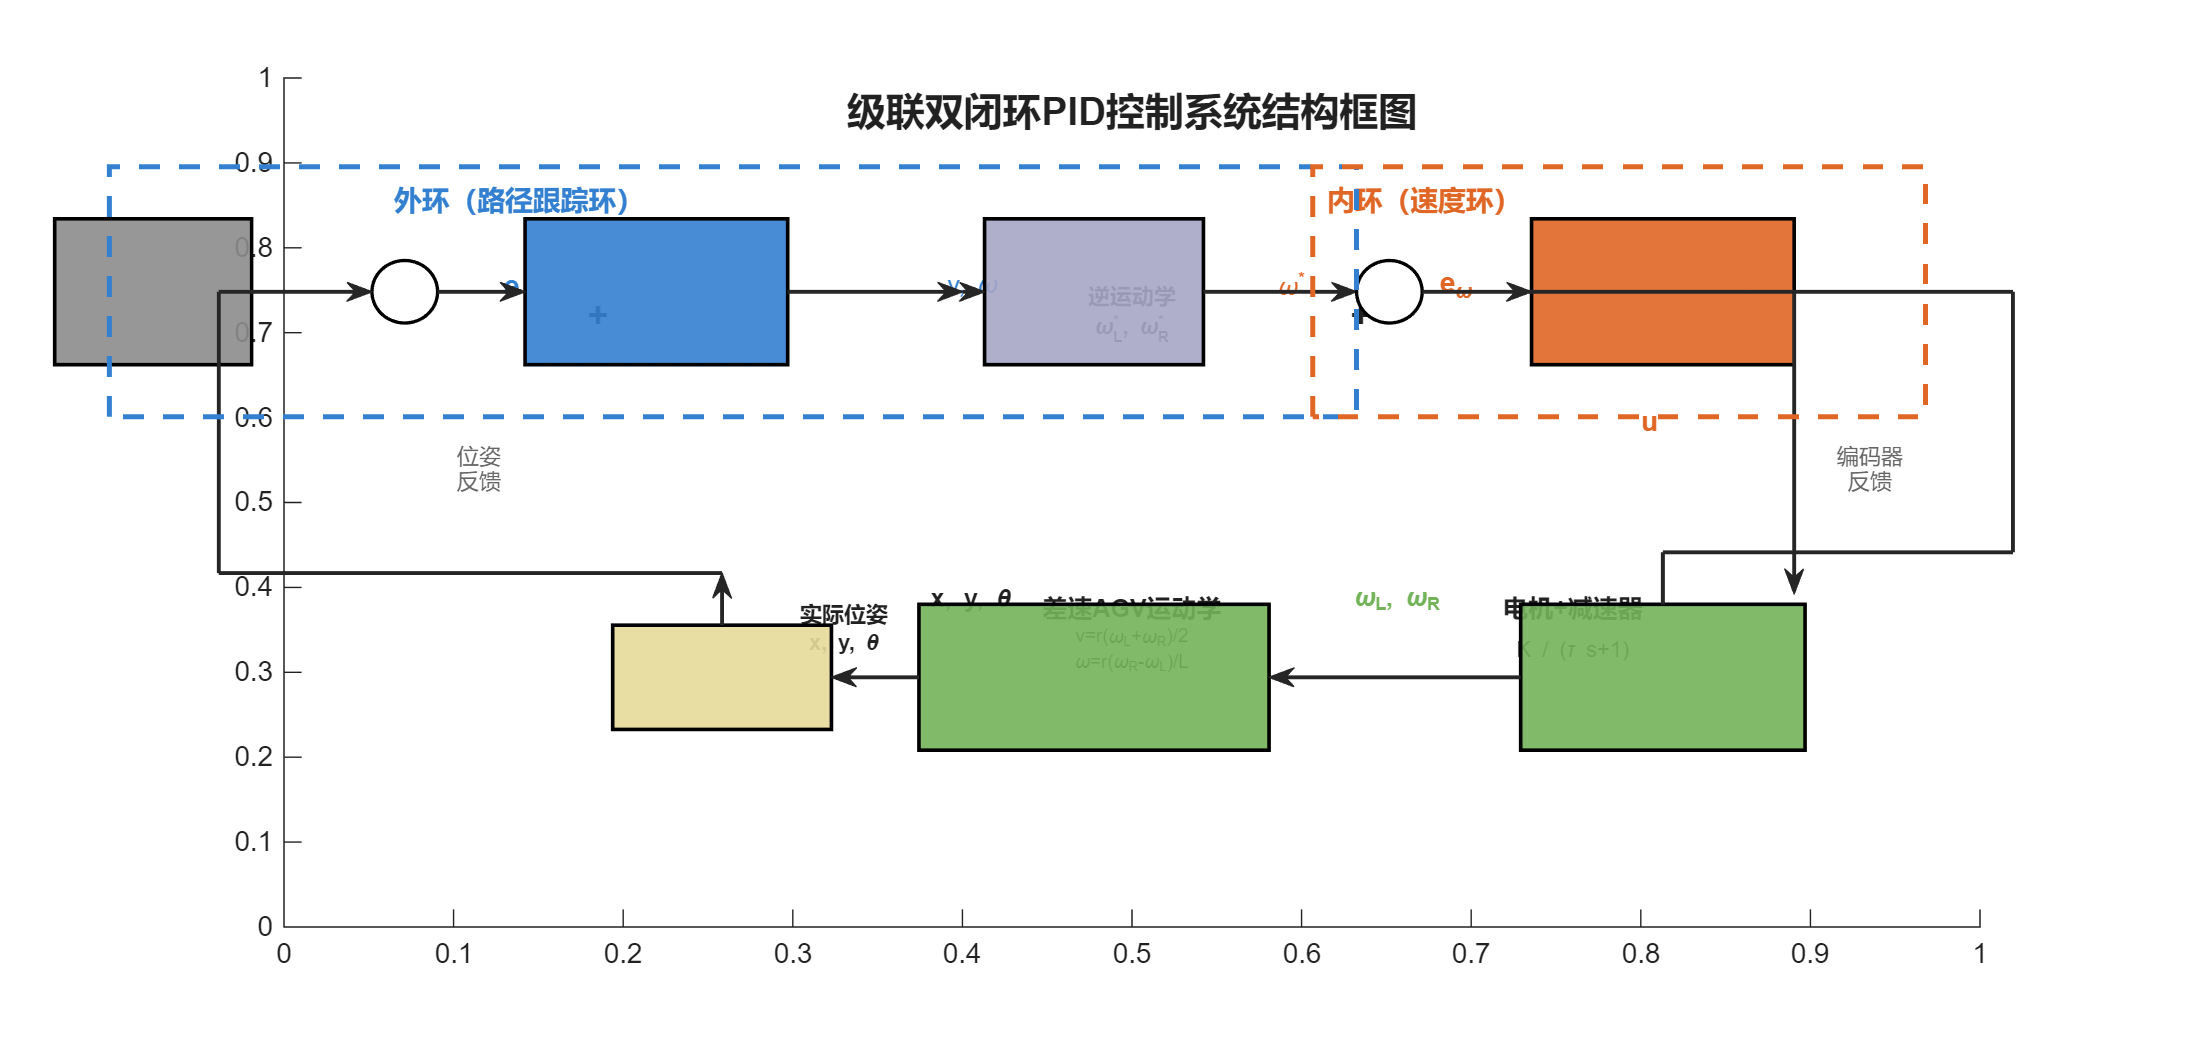
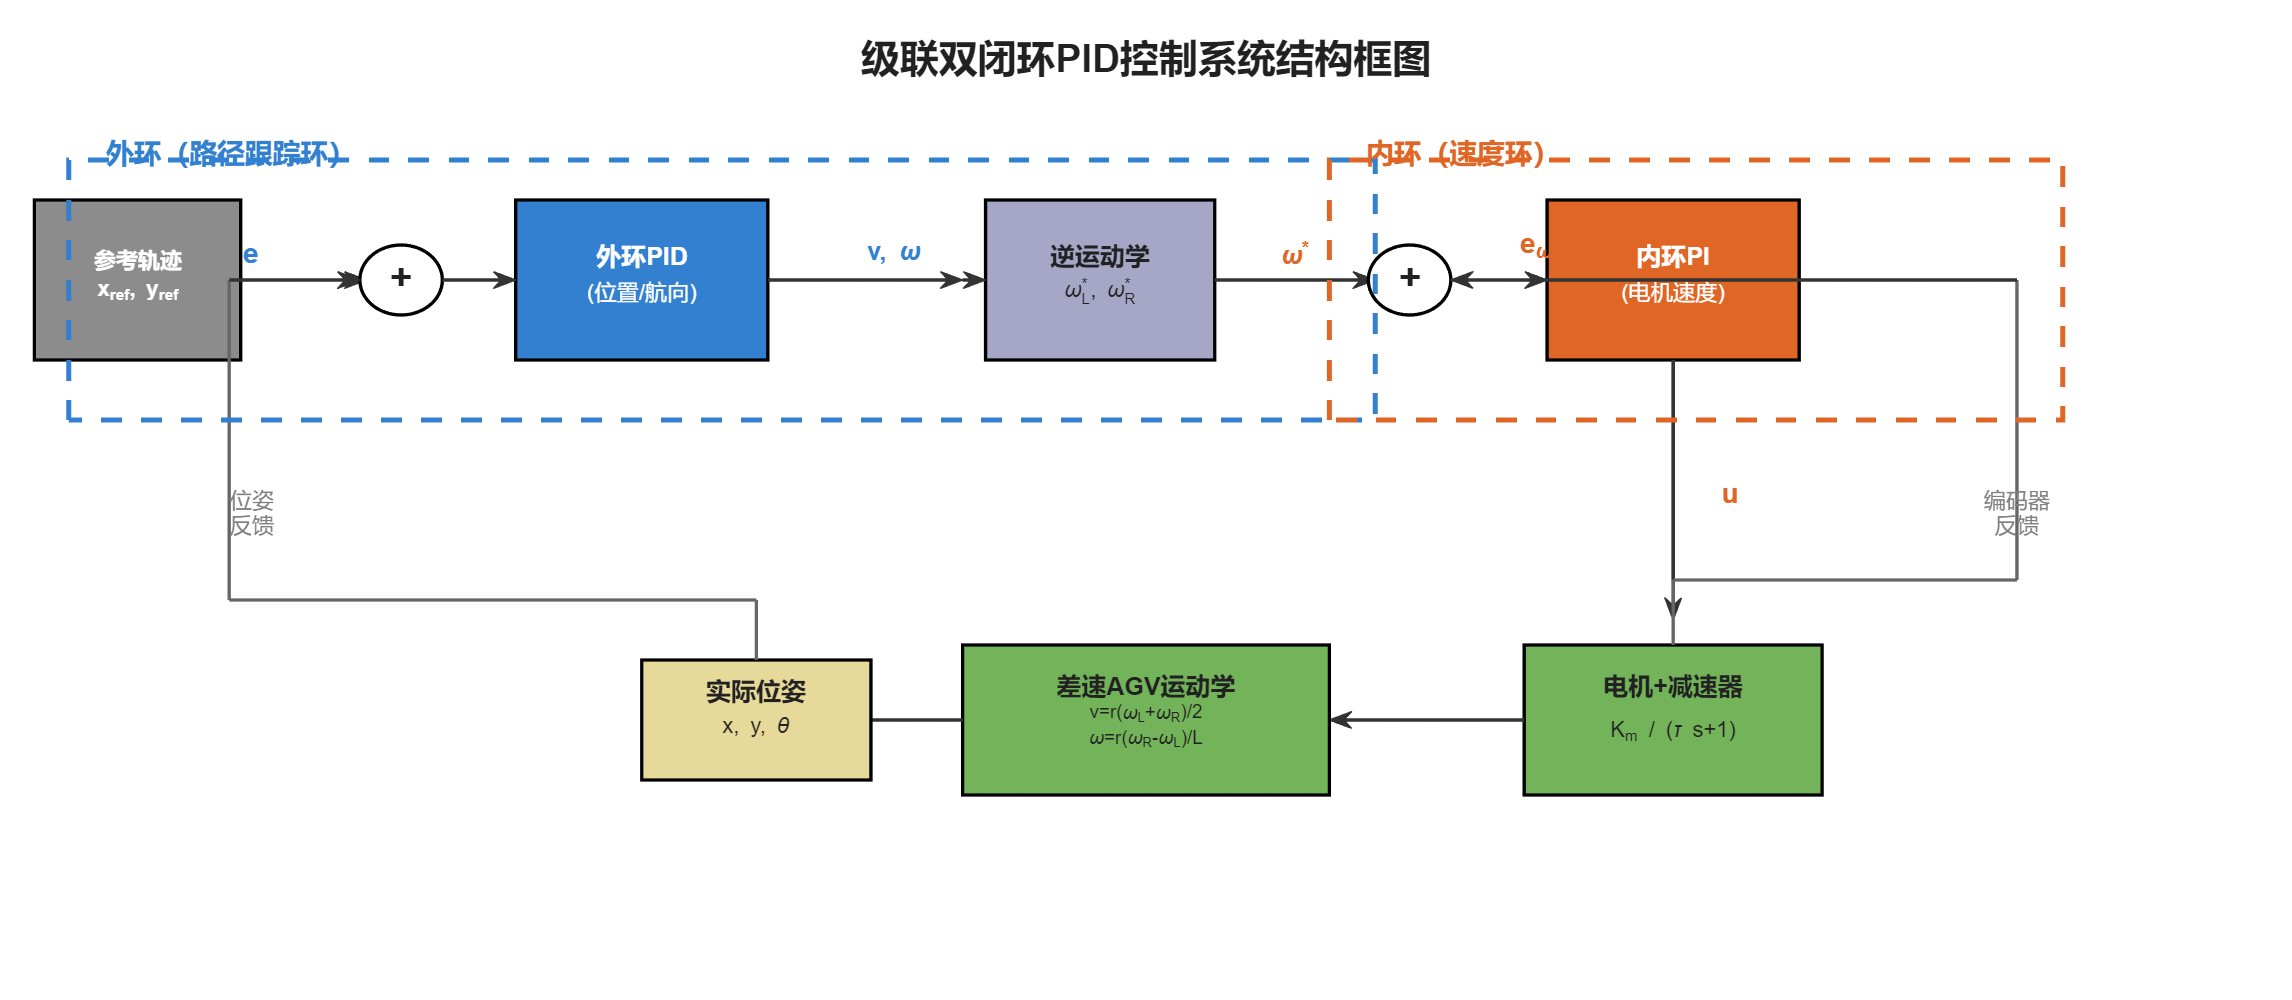
加双环PID结构框图: 重绘无坐标轴版, 插入6.2节开头

diff --git a/lunwen/QLULatex/QLUThesisLatexTemplate-master/Thesis/pages/body.tex b/lunwen/QLULatex/QLUThesisLatexTemplate-master/Thesis/pages/body.tex
@@ -1286,9 +1286,17 @@ PID控制器的输出信号$u(t)$由三部分组成：
 
     }
     \section{双轮差速PID控制器设计}
+
+    \begin{figure}[H]
+    \centering
+    \includegraphics[width=0.85\textwidth]{cascaded_pid_diagram.png}
+    \caption{级联双闭环PID控制系统结构框图}
+    \label{fig:pid_structure}
+    \end{figure}
+
     \xfbody{
 
-    针对双轮差速小车的运动控制问题，本文采用双环PID级联控制架构。外环为位姿环，依据位置偏差和航向偏差计算期望线速度$v_{\mathrm{cmd}}$和期望角速度$\omega_{\mathrm{cmd}}$；内环为轮速环，由左右两个独立的PI控制器构成，负责跟踪外环下发的轮速指令并输出电机控制电压。内环响应频率约为外环的3$\sim$5倍，保证内环优先收敛后再由外环进行位姿修正。
+    针对双轮差速小车的运动控制问题，本文采用如图\ref{fig:pid_structure}所示的双环PID级联控制架构。外环为位姿环，依据位置偏差和航向偏差计算期望线速度$v_{\mathrm{cmd}}$和期望角速度$\omega_{\mathrm{cmd}}$；内环为轮速环，由左右两个独立的PI控制器构成，负责跟踪外环下发的轮速指令并输出电机控制电压。内环响应频率约为外环的3$\sim$5倍，保证内环优先收敛后再由外环进行位姿修正。
 
     外环（位姿环）的输入为期望位姿与当前位姿之间的偏差，输出为线速度指令和角速度指令。以定点镇定为例，设目标位姿为$(x_t, y_t, \theta_t)$，当前位姿为$(x, y, \theta)$。当机器人距离目标较远时，期望航向指向目标点方向$\arctan(y_t-y, x_t-x)$，驱动机器人朝向目标点运动；当距离缩小至阈值以内后，期望航向切换为目标角度$\theta_t$，完成姿态对准。航向偏差经PID运算后输出角速度指令$\omega_{\mathrm{cmd}}$，距离偏差经比例运算后输出线速度指令$v_{\mathrm{cmd}}$。为避免大幅度转向时出现失控，当航向偏差超过$\pi/3$时将线速度缩减至正常值的$20\%$，优先完成转向。
 